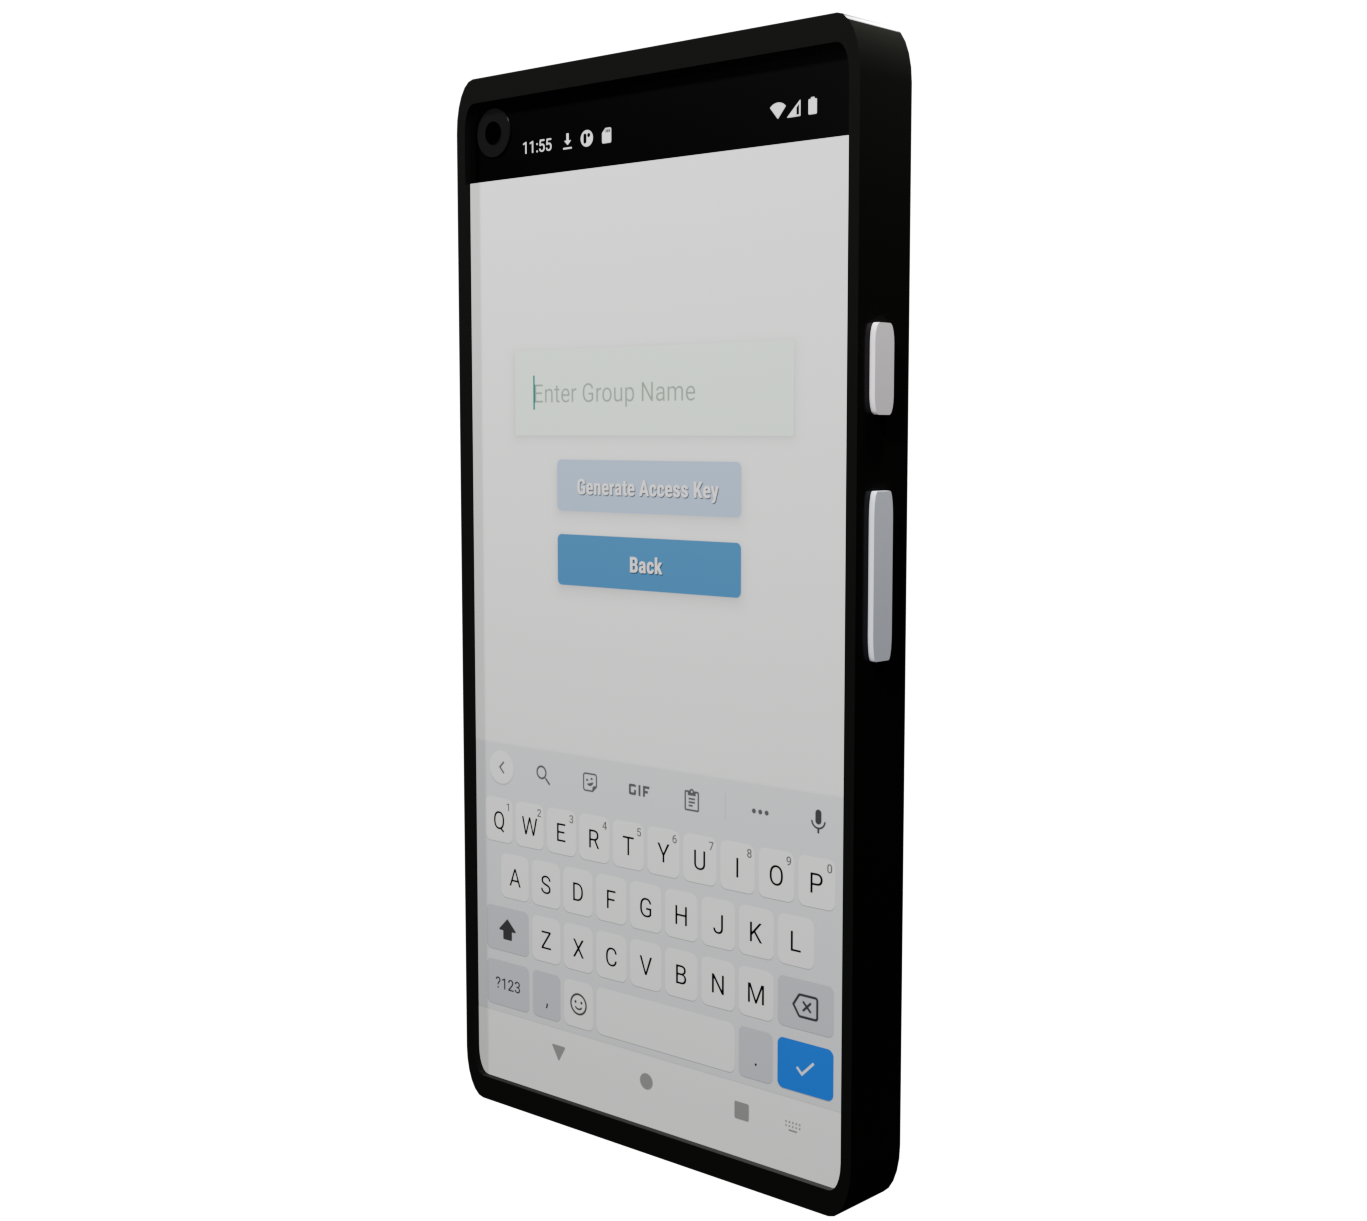
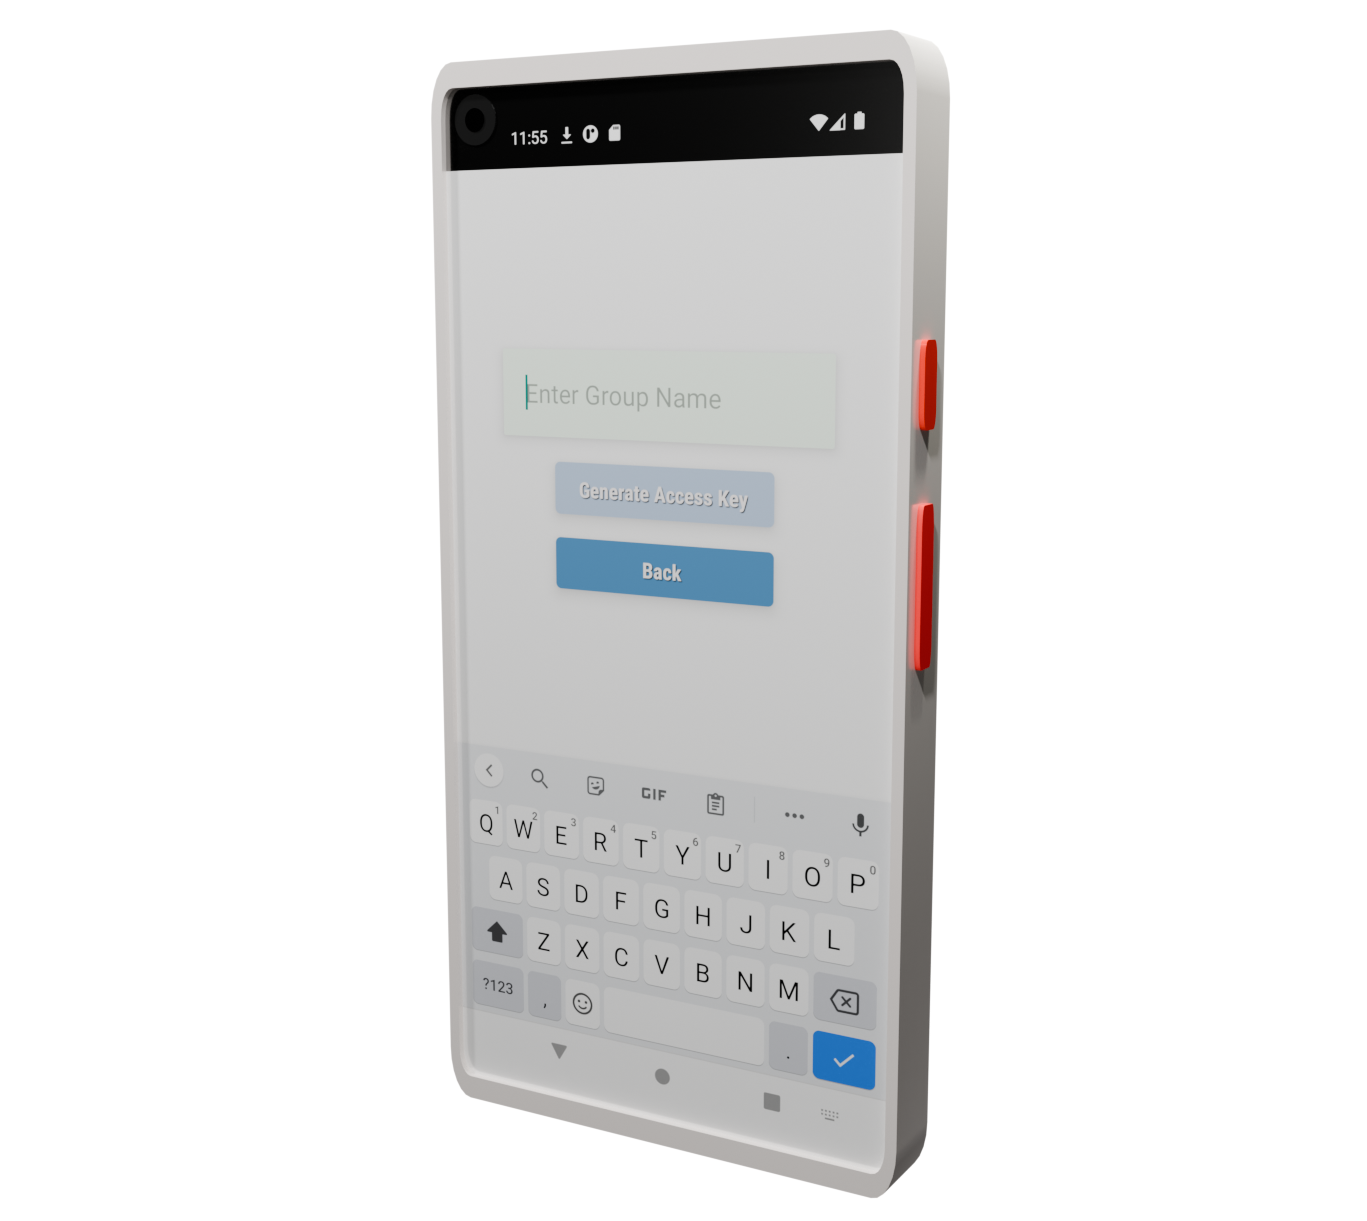
finished adding the rest of the phone 3d models, next step is going over each modal to tweak and adjust media queries

diff --git a/src/components/HeyYouModal.js b/src/components/HeyYouModal.js
@@ -17,6 +17,9 @@ import expo from "../images/expo.png";
 import phoneHeyYouMenu from "../images/phoneHeyYouMenu.png";
 import phoneHeyYouMain from "../images/phoneHeyYouMain.png";
 import phoneHeyYouGenerate from "../images/phoneHeyYouGenerate.png";
+import phoneHeyYouJoined from "../images/phoneHeyYouJoined.png";
+import phoneHeyYouMap from "../images/phoneHeyYouMap.png";
+import phoneHeyYouChat from "../images/phoneHeyYouChat.png";
 
 function HeyYouModal({ isOpen, closeModal }) {
   return (
@@ -109,6 +112,27 @@ function HeyYouModal({ isOpen, closeModal }) {
                   src={phoneHeyYouGenerate}
                   className="hey-you-phone-generate"
                   alt="phone generate"
+                />
+              </div>
+              <div className="hey-you-phone-joined-container">
+                <img
+                  src={phoneHeyYouJoined}
+                  className="hey-you-phone-joined"
+                  alt="phone joined"
+                />
+              </div>
+              <div className="hey-you-phone-map-container">
+                <img
+                  src={phoneHeyYouMap}
+                  className="hey-you-phone-map"
+                  alt="phone map"
+                />
+              </div>
+              <div className="hey-you-phone-chat-container">
+                <img
+                  src={phoneHeyYouChat}
+                  className="hey-you-phone-chat"
+                  alt="phone chat"
                 />
               </div>
           </div>

diff --git a/src/SCSS/ProjectsHeyYouModal.scss b/src/SCSS/ProjectsHeyYouModal.scss
@@ -335,7 +335,7 @@
   order: 3;
   grid-template-columns: repeat(12, 1fr);
   grid-template-rows: repeat(12, 1fr);
-  background-color: rgb(153, 0, 255);
+  background-color: rgb(255, 255, 255);
   z-index: 1;
 }
 
@@ -346,37 +346,67 @@
 
 .hey-you-phone-main-container,
 .hey-you-phone-menu-container,
-.hey-you-phone-generate-container {
+.hey-you-phone-generate-container,
+.hey-you-phone-joined-container,
+.hey-you-phone-map-container,
+.hey-you-phone-chat-container {
   display: flex;
   align-items: center;
   justify-content: center;
 }
 
-.hey-you-phone-main-container {
-  grid-column: 2 / 4;
-  grid-row: 1 / 12;
-}
-
-.hey-you-phone-main {
-  scale: .6;
-}
-
 .hey-you-phone-menu-container {
-  grid-column: 4 / 7;
+  grid-column: 1 / 3;
   grid-row: 1 / 12;
 }
 
 .hey-you-phone-menu {
-  scale: .6;
+  scale: .5;
+}
+.hey-you-phone-main-container {
+  grid-column: 2 / 5;
+  grid-row: 1 / 12;
 }
 
+.hey-you-phone-main {
+  scale: .5;
+}
+
+
 .hey-you-phone-generate-container {
-  grid-column: 7 / 12;
+  grid-column: 3 / 8;
   grid-row: 1 / 12;
 }
 
 .hey-you-phone-generate {
-  scale: .6;
+  scale: .5;
+}
+
+.hey-you-phone-joined-container {
+  grid-column: 5 / 10;
+  grid-row: 1 / 12;
+}
+
+.hey-you-phone-joined {
+  scale: .5;
+}
+
+.hey-you-phone-map-container {
+  grid-column: 7 / 12;
+  grid-row: 1 / 12;
+}
+
+.hey-you-phone-map {
+  scale: .5;
+}
+
+.hey-you-phone-chat-container {
+  grid-column: 10 / 15;
+  grid-row: 1 / 12;
+}
+
+.hey-you-phone-chat {
+  scale: .5;
 }
 
 
